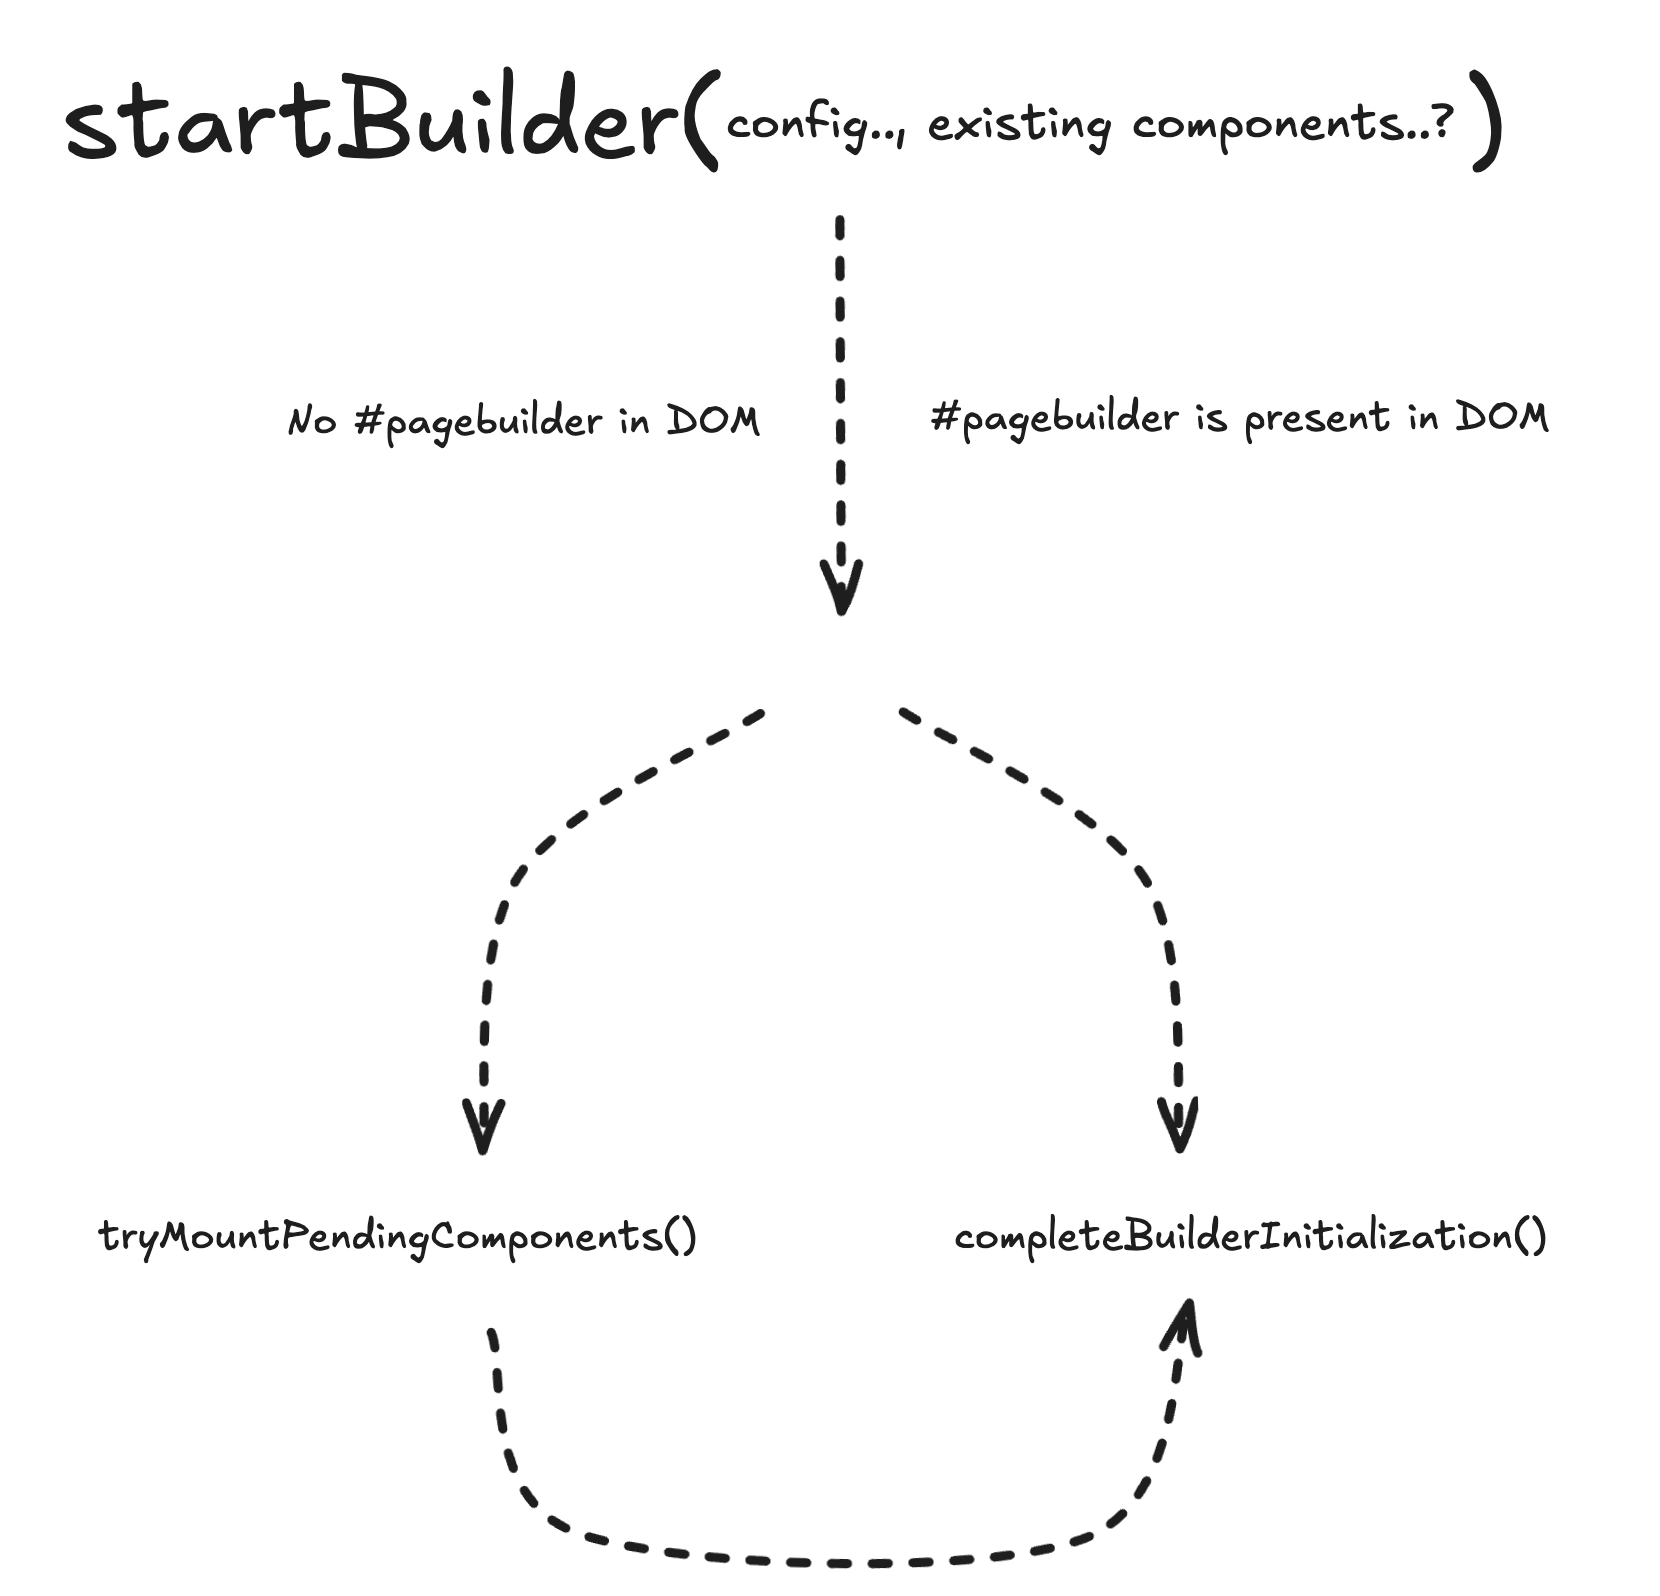
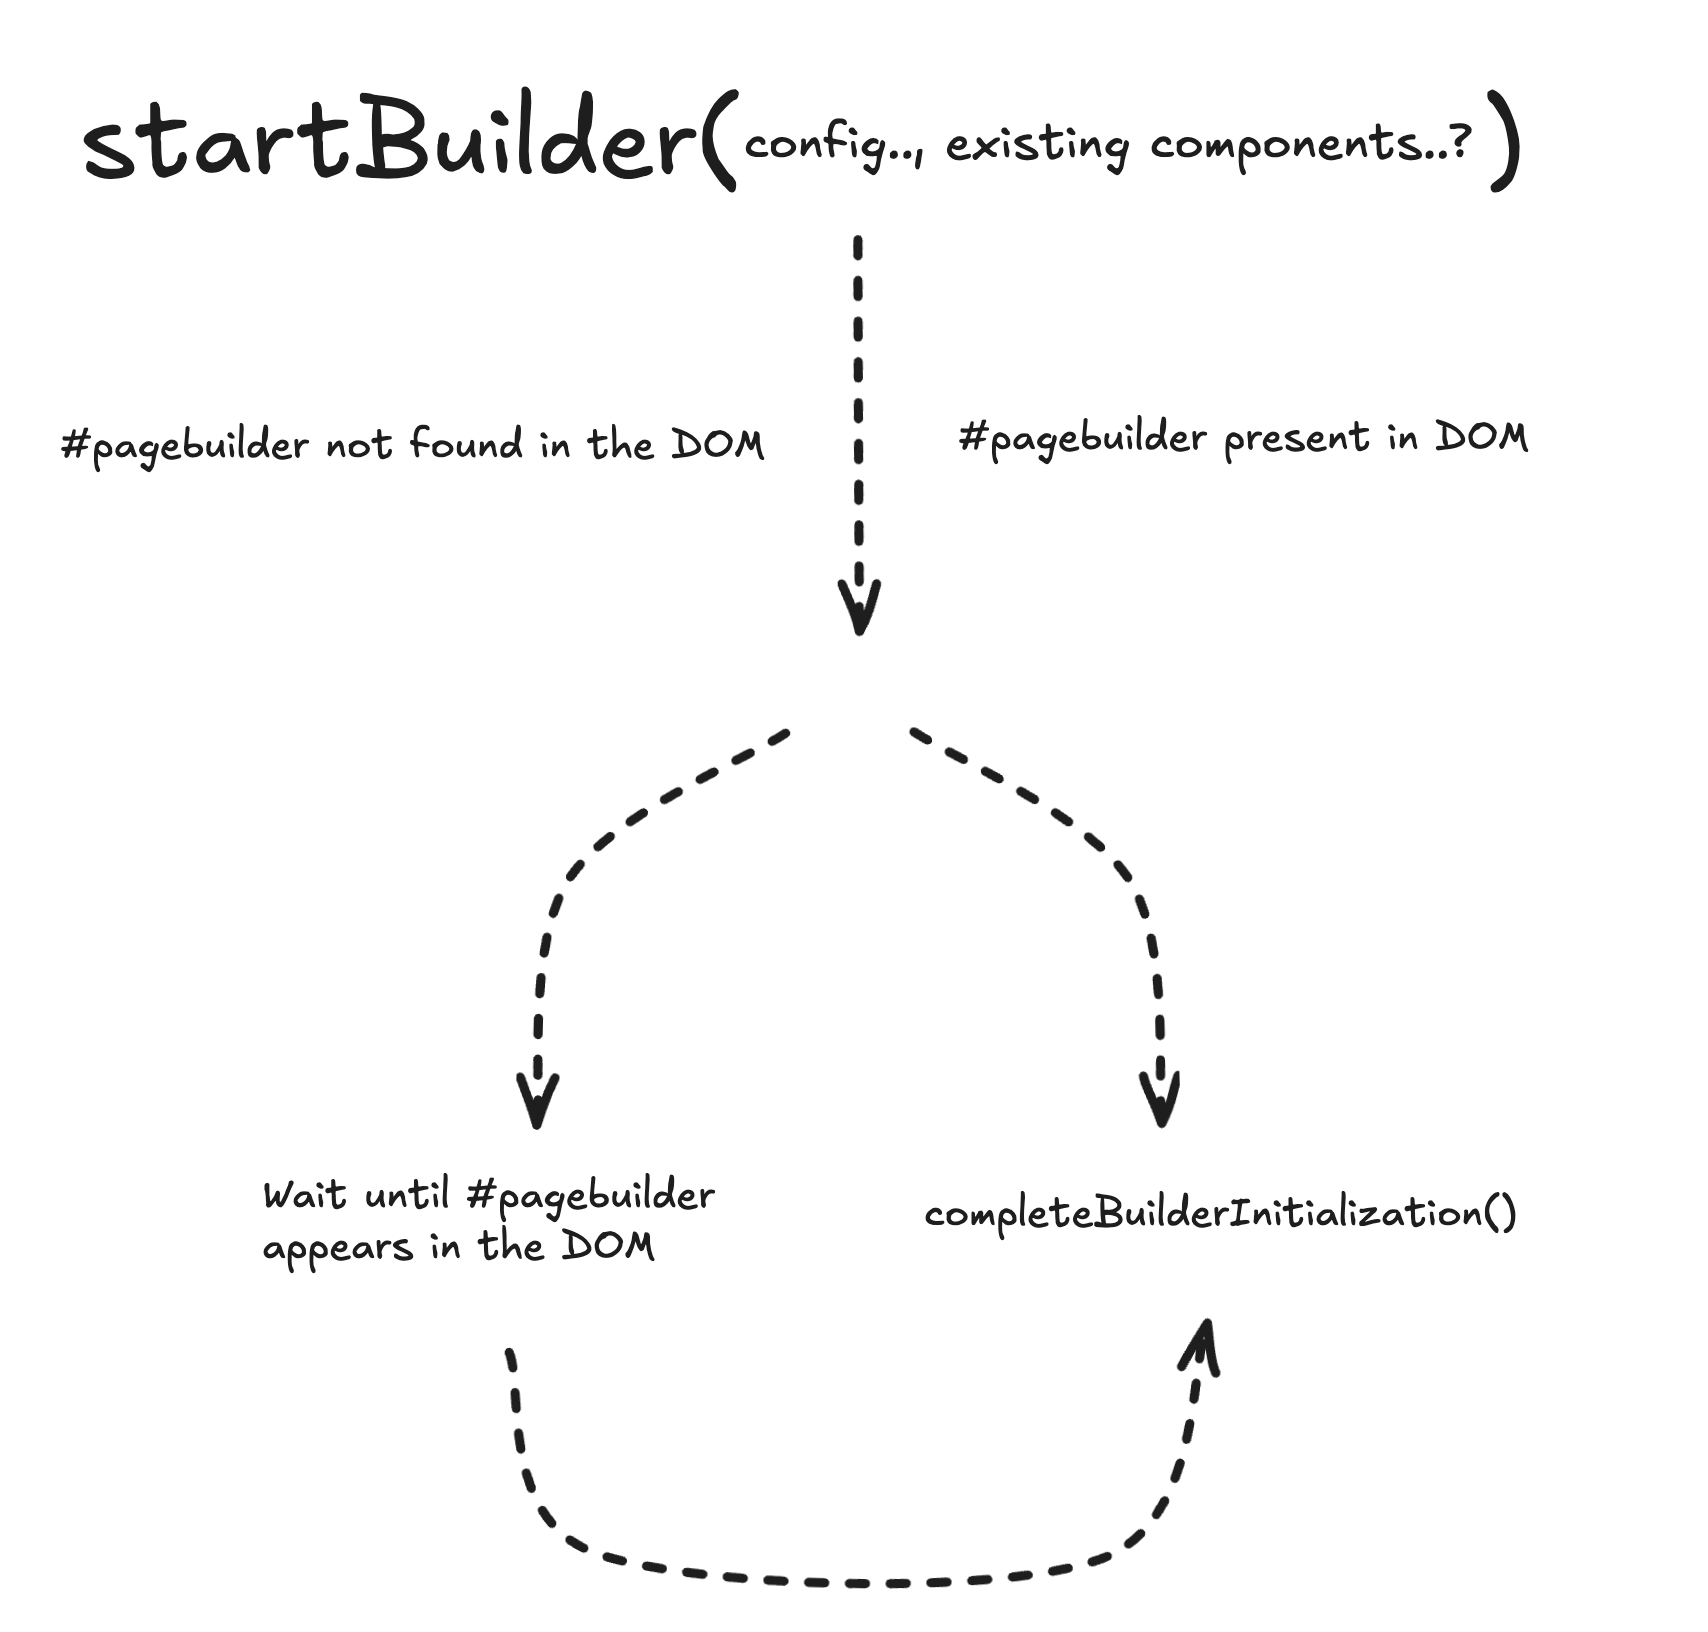
refactor: update pageSettings section in README and streamline PageBuilderService logic

diff --git a/src/composables/PageBuilderService.ts b/src/composables/PageBuilderService.ts
@@ -246,10 +246,6 @@ export class PageBuilderService {
     }
   }
 
-  #handlePageBuilderNotPresent(passedDataComponents: BuilderResourceData) {
-    this.pendingMountData = passedDataComponents
-  }
-
   /**
    * - Entry point for initializing the Page Builder.
    * - Sets the builder as started in the state store.
@@ -283,7 +279,7 @@ export class PageBuilderService {
 
       // Page Builder is not Present in the DOM but Components have been passed to the Builder
       if (passedComponentsArray && !pagebuilder) {
-        this.#handlePageBuilderNotPresent(passedComponentsArray)
+        this.pendingMountData = passedComponentsArray
       }
       // Page Builder is Present in the DOM & Components have been passed to the Builder
       if (pagebuilder) {
@@ -336,61 +332,61 @@ export class PageBuilderService {
     //
     //
     if (formType === 'update' || formType === 'create') {
-      // FOCUS ON: passedComponentsArray
-      // Prefer components from local storage if available for this resource
-      if (passedComponentsArray && !this.pendingMountData && !localStorageData) {
-        console.log('1111:')
-        await this.#mountComponentsToDOM(JSON.stringify(passedComponentsArray))
-      }
-      if (passedComponentsArray && !this.pendingMountData && localStorageData) {
-        this.pageBuilderStateStore.setHasLocalDraftForUpdate(true)
-        console.log('2222:')
-        await this.#mountComponentsToDOM(localStorageData)
-      }
-      if (passedComponentsArray && this.pendingMountData && !localStorageData) {
-        console.log('3333:')
-        await this.#mountComponentsToDOM(JSON.stringify(passedComponentsArray))
-      }
-      if (passedComponentsArray && this.pendingMountData && localStorageData) {
-        this.pageBuilderStateStore.setHasLocalDraftForUpdate(true)
-        console.log('4444:')
-        await this.#mountComponentsToDOM(JSON.stringify(passedComponentsArray))
+      if (!this.pendingMountData) {
+        // FOCUS ON: passedComponentsArray
+        if (passedComponentsArray && !localStorageData) {
+          await this.#completeMountProcess(JSON.stringify(passedComponentsArray))
+          return
+        }
+        if (passedComponentsArray && localStorageData) {
+          this.pageBuilderStateStore.setHasLocalDraftForUpdate(true)
+
+          await this.#completeMountProcess(JSON.stringify(passedComponentsArray))
+          return
+        }
+
+        if (passedComponentsArray && localStorageData) {
+          this.pageBuilderStateStore.setHasLocalDraftForUpdate(true)
+
+          await this.#completeMountProcess(JSON.stringify(passedComponentsArray))
+          return
+        }
+
+        if (localStorageData && !passedComponentsArray) {
+          await this.#completeMountProcess(localStorageData)
+          return
+        }
+        if (!passedComponentsArray && !localStorageData) {
+          await this.#completeMountProcess(JSON.stringify([]))
+          return
+        }
       }
 
       // FOCUS ON: pendingMountData
-      if (this.pendingMountData && !localStorageData && !passedComponentsArray) {
-        console.log('5555:')
-        await this.#mountComponentsToDOM(JSON.stringify(this.pendingMountData))
-        this.pendingMountData = null
-      }
-      if (this.pendingMountData && !localStorageData && passedComponentsArray) {
-        console.log('6666:')
-        await this.#mountComponentsToDOM(JSON.stringify(this.pendingMountData))
-        this.pendingMountData = null
-      }
-      if (this.pendingMountData && localStorageData && !passedComponentsArray) {
-        this.pageBuilderStateStore.setHasLocalDraftForUpdate(true)
-        console.log('7777:')
-        await this.#mountComponentsToDOM(JSON.stringify(this.pendingMountData))
-        this.pendingMountData = null
-      }
+      if (this.pendingMountData) {
+        if (localStorageData) {
+          this.pageBuilderStateStore.setHasLocalDraftForUpdate(true)
+          await this.#completeMountProcess(JSON.stringify(this.pendingMountData))
+          this.pendingMountData = null
+          return
+        }
+        if (!localStorageData && passedComponentsArray) {
+          await this.#completeMountProcess(JSON.stringify(this.pendingMountData))
+          this.pendingMountData = null
+          return
+        }
 
-      // FOCUS ON: localStorageData
-      if (localStorageData && !this.pendingMountData && !passedComponentsArray) {
-        console.log('9999:')
-        await this.#mountComponentsToDOM(localStorageData)
-      }
-      if (localStorageData && this.pendingMountData && !passedComponentsArray) {
-        console.log('XXXX:')
-        await this.#mountComponentsToDOM(localStorageData)
-      }
-      if (localStorageData && !this.pendingMountData && passedComponentsArray) {
-        console.log('YYYY:')
-        await this.#mountComponentsToDOM(localStorageData)
+        if (!passedComponentsArray && !localStorageData) {
+          await this.#completeMountProcess(JSON.stringify([]))
+          return
+        }
       }
     }
     //
+  }
 
+  async #completeMountProcess(html: string) {
+    await this.#mountComponentsToDOM(html)
     // Wait for Vue to finish DOM updates before attaching event listeners. This ensure elements exist in the DOM.
     await nextTick()
     // Attach event listeners to all editable elements in the Builder
@@ -2068,7 +2064,6 @@ export class PageBuilderService {
   }
   // Private method to parse HTML components
   async #parseHTMLComponents(htmlData: string): Promise<void> {
-    console.log('parseHTMLComponents ran..:')
     try {
       const parser = new DOMParser()
       const doc = parser.parseFromString(htmlData, 'text/html')

diff --git a/src/DemoComponents/HomeSection.vue b/src/DemoComponents/HomeSection.vue
@@ -61,7 +61,7 @@ const configPageBuilder = {
     image: '/jane_doe.jpg',
   },
   updateOrCreate: {
-    formType: 'update',
+    formType: 'create',
     formName: 'collection',
   },
   pageBuilderLogo: {

diff --git a/README.md b/README.md
@@ -482,8 +482,9 @@ function closePageBuilder() {
 > You can name your handler function anything you like.  
 > This pattern makes it easy to embed the builder in modals, dialogs, or overlays in any Vue app.
 
-### Config Option: `pageSettings`
+### Page Wrapper Styles
 
+Use the `pageSettings` config to apply custom CSS classes and inline styles to the Page Builder’s main wrapper.
 The Page Builder renders all components wrapped inside a single parent container `<div id="pagebuilder">`.  
 You can pass global CSS ``classes` and `style` to this wrapper by adding a `pageSettings` object in your config:
 
